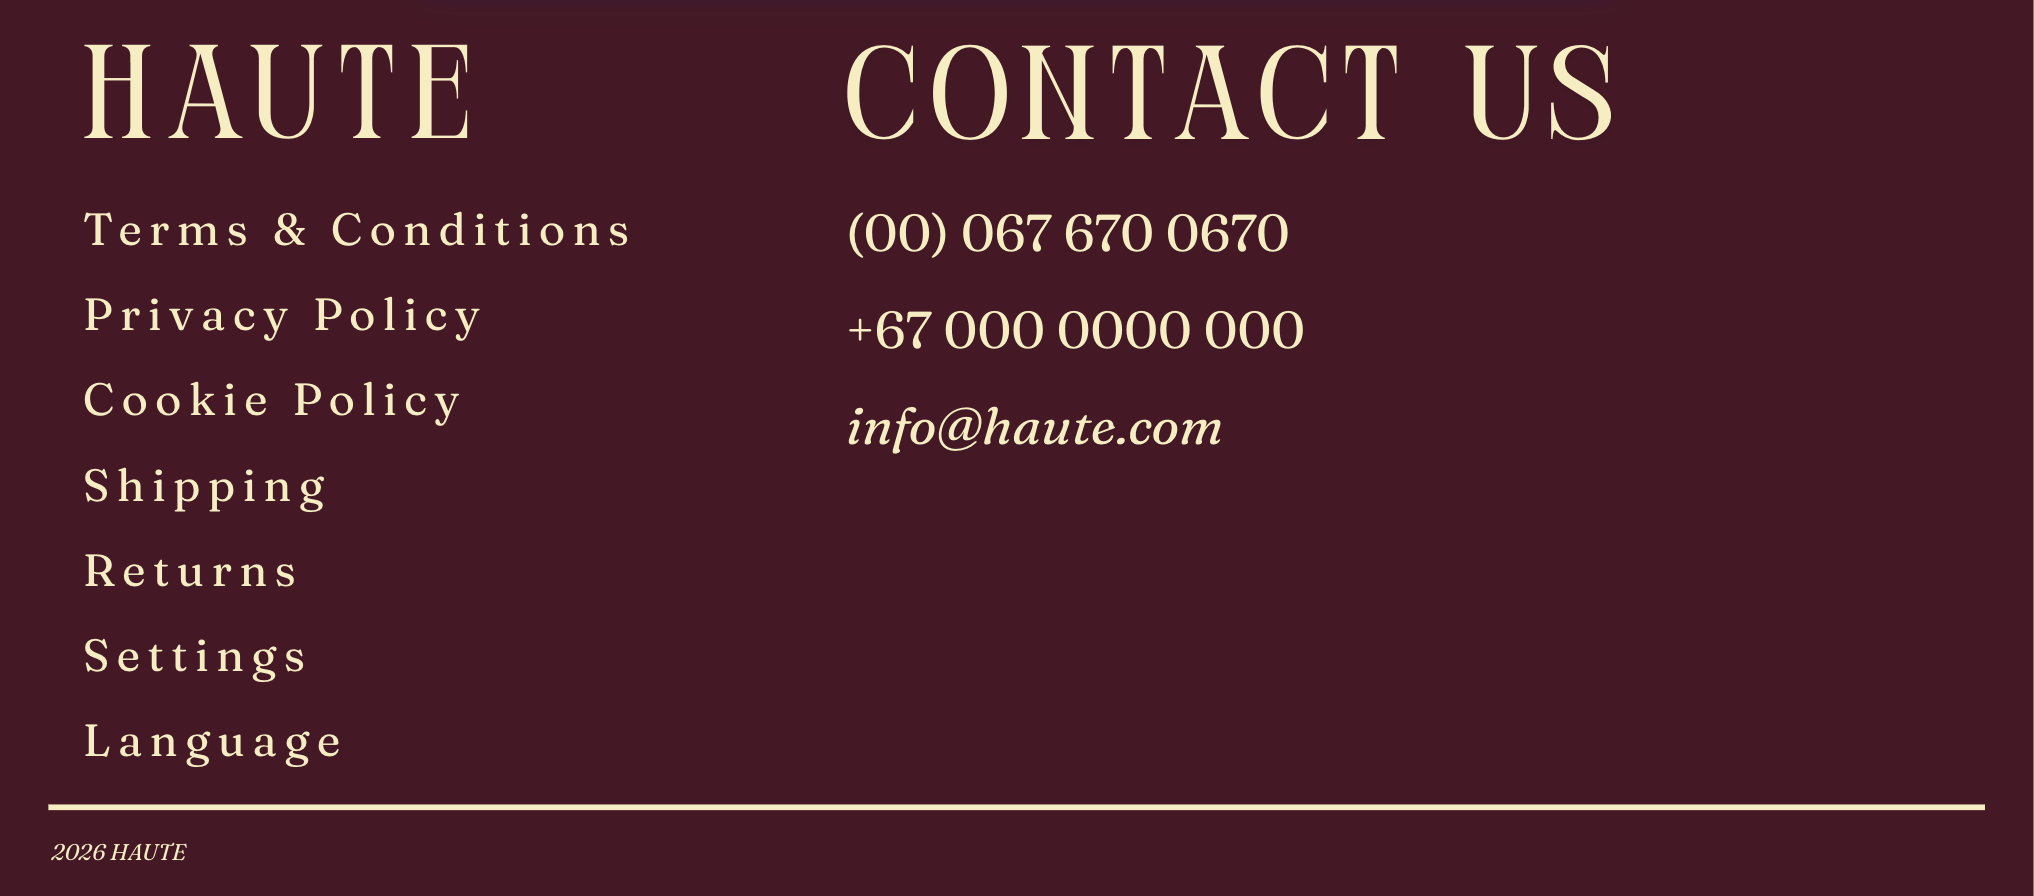
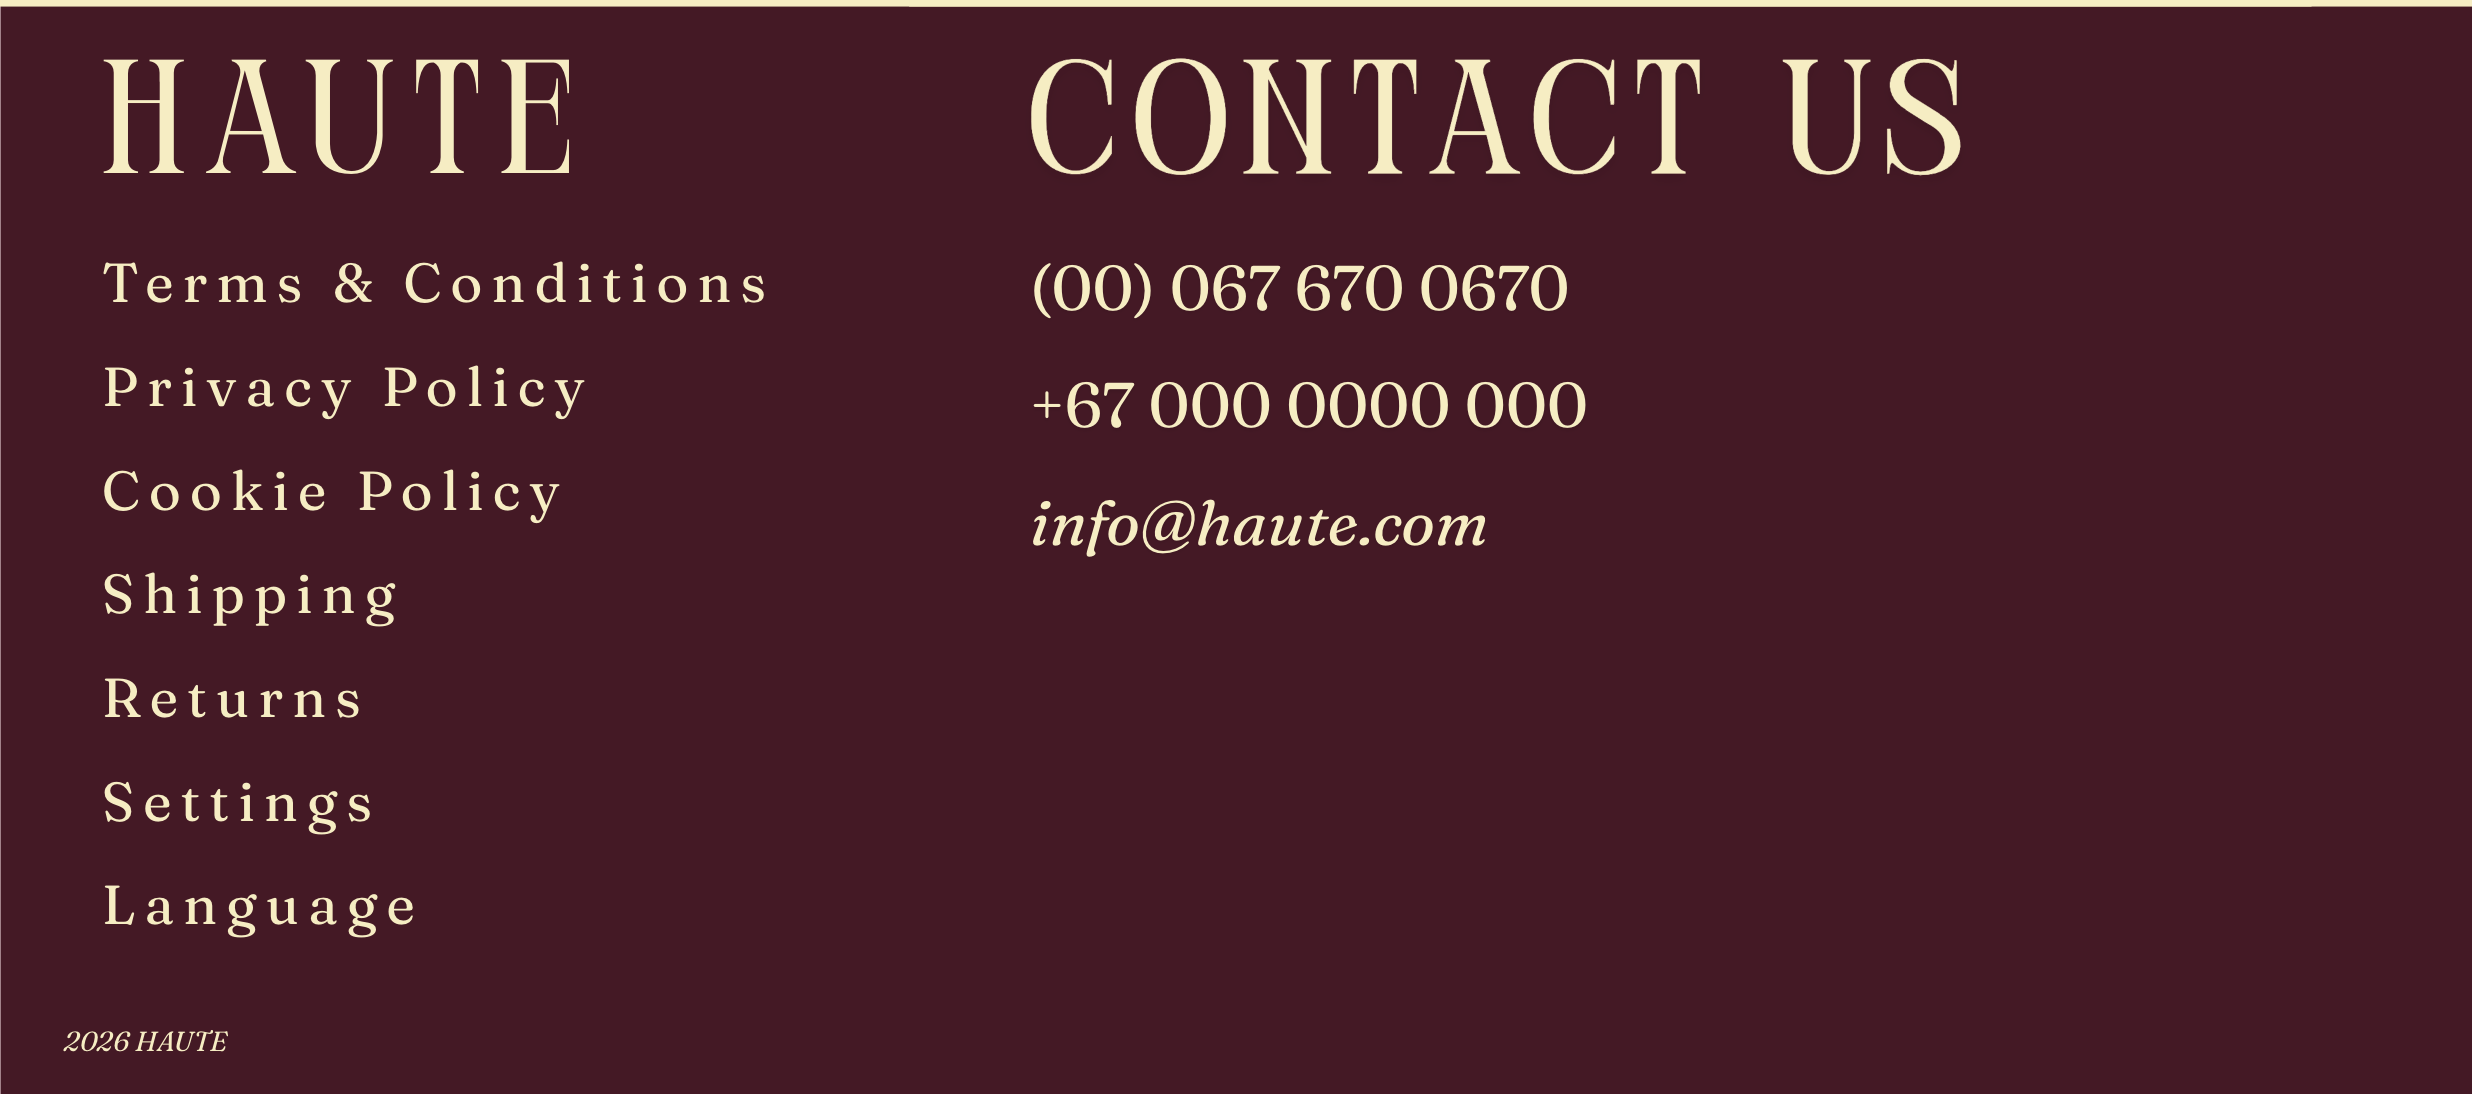
finished colaroma.html
added pics & wrote text for colaroma.html similar template form as soleil.html and venus.html

diff --git a/colaroma.html b/colaroma.html
@@ -3,7 +3,7 @@
 <head>
     <meta charset="UTF-8">
     <meta name="viewport" content="width=device-width, initial-scale=1.0">
-    <title>Shop&Cart</title>
+    <title>Soleil</title>
     <link href="https://fonts.cdnfonts.com/css/perandory" rel="stylesheet">
     <link rel="stylesheet" href="styles.css">
     <link rel="preconnect" href="https://fonts.googleapis.com">
@@ -12,12 +12,10 @@
 </head>
 <body>
     <nav>
-
-        
         <div class="navLeft">
             <ul>
                 <li>
-                        <img src="photos/menu.png" width="70">
+                        <img src="photos/menu.png" width="70"> 
                 </li>
                 <li>
                     <a href="explore.html">
@@ -45,7 +43,36 @@
         </div>
     </nav>
     <main class="colaroma">
+        <div class="ticker">
+            <div class="ticker-track">
+                <span>Introducing you to a fan favorite •  COLAROMA  • </span>
+                <span>Introducing you to a fan favorite •  COLAROMA  • </span>
+                <span>Introducing you to a fan favorite •  COLAROMA  • </span>
+            </div>
+        </div>
+        <div>
+            <img src="photos/colarama_billboard.png" width="1470px">
+        </div>
+        <div class="soleil1">
+           <img src="photos/cans_colaroma.png" width="700px" height="700px"> 
+           <p><b>COCA-COLA</b><br><br>We are thrilled to announce this scent, and it would not have been possible without our partnership with <i>Coca-Cola<sup>®</sup>.</i> Coca-Cola was officially founded in 1892, and throughout the years, Coca-Cola's branding has consisted of various aesthetics, whether it's picniccore, vintage, or dark summer aesthetic--This was our goal for Colaroma, to be able to combine such aesthetics that regularly contradict each other, into one bottle, one scent profile, and one unforgettable masterpiece. Additionally, Coca-cola's scent profile has always been distinct, and enjoyed by many. We hope you enjoy this scent just as much as you might enjoy a sip of Coca-Cola on a warm summer day!</p>
+        </div>
+        <div class="soleil1">
+            <p><b>BACCHUS</b><br><br>If Bacchus, the Roman god of wine and festive revelry were to roam this planet today, undoubtedly, he'd be the biggest fan of coca-cola. This connection between the two shaped this scent with great influence. The fragrance is built around sweet spices and caramel. The top notes are a quick and subtle bitter citrus dew, which provides more dimension rather than overwhelming sweetness, also providing the intial spicy and fizzy scent. The heart notes are defined by cinnamon and caramel, with a hint of vanilla. This is the peak of the coca-cola scent, though it is important to remember the hint of vanilla remains subtle in order to make sure it doesn't overpower the overall cherry-cola scent that allows it to blend in with the base notes. With this in mind, the base notes gradually shift into the wine aroma, a warm and complex blend of deep grape and cherry, and a tart yet boozy fragrance of wine fermentation.</p>
+            <img src="photos/coke_colaroma.png" width="700px" height="700px"> 
+        </div>
+        <div class="soleil1">
+           <img src="photos/grapes_colaroma.png" width="700px" height="700px"> 
+           <p><b>KEY INGREDIENTS</b><br><br>Benzyl salicyate is a naturally derived organic compound which features a subtle, sweet balsamic scent. We also added ylang-ylang oils for additional tropical, rich, and warm undertones of custard, banana, and honey. The essential element, however was the natural extract coming from the citrus of bergamot lemon. This supplied the bright, zesty citrus punch you'll find in any lemon, with the slightly spicy undertone coming from the peels that you'll smell in the perfume. In order to make the scent last, we added ambergris, a substrance produced in the digestive system of sperm whales that is known for being a rare, effective fixative that helps perfume scents last longer.</p>
+        </div>
+        <div class="soleilButtons">
+            <a href="shop.html">
+                <img src="photos/btn1_venus.png" width="450"> 
+            </a>
+            <a href="explore.html">
+                <img src="photos/btn2_venus.png" width="450"> 
+            </a>
+        </div>
     </main>
     <img src="photos/footer.png" width="1475" height="700">
-</body>
-</html>
+</body

diff --git a/venus.html b/venus.html
@@ -55,7 +55,7 @@
         </div>
         <div class="soleil1">
            <img src="photos/flowers_venus.png" width="700px" height="700px"> 
-           <p><b>FLYTRAP</b><br><br>The Venus Flytrap, the muse of this piece, attracts its prey using sweet nectar, bright colors, and food-like scents. It mimics the aromas of flowers and ripening fruit. The Venus Flytrap is named after Venus, the Roman goddess of beauty and love.</p>
+           <p><b>FLYTRAP</b><br><br>The Venus Flytrap, the muse of this piece, attracts its prey using sweet nectar, bright colors, and food-like scents. It mimics the aromas of flowers and ripening fruit. The Venus Flytrap is named after Venus, the Roman goddess of beauty and love, and this scent was subsequently named so too.</p>
         </div>
         <div class="soleil1">
             <p><b>THE SWEETEST BLOOM</b><br><br>Our primary goal of this scent was to be able to seamlessly combine the sweet, rich aroma you're hit with when stepping into a bakery, with the intoxicating floral scent you'll find in lush flower meadows. Venus is the perfect mix this, consisting of the main floral aroma, and a subtle sweet frosting scent. The scent opens with a bright burst of ripening fruit, tempting as fresh-picked berries on a spring afternoon built around a lush, nectar-sweet floral heart. The scent settles into a whipped, honeysuckle, lingering with a fruity jam-like sweetness of a pastry filling. As the dewy, honeyed scent floats in the air, you're sure to turn heads with this scent trailing behind your footsteps.</p>
@@ -63,7 +63,7 @@
         </div>
         <div class="soleil1">
            <img src="photos/strawberrysyrup_venus.png" width="700px" height="700px"> 
-           <p><b>KEY INGREDIENTS</b><br><br>Honeysuckle absolute froms the lush, nectar-sweet floral heart of the fragnance, capturing the same allyring aroma the Venus Flytrap used to draw in its prey. We layered Fiori di Sicilia extract, a delicate floral-vanilla note traditionally used in Italian pastry baking, to bridge the gap between blooming flower and sweet frosting. A ripe berry jam accord adds a fruity, simmered sweetness, reminiscent of pastry filling still warm the oven, while a soft whipped frosting note lends a sugared, creamy finish that lingers like the last but of dessert. Finally, we included trace organic compounds drawn from the Venus Flytrap itself, subtle understated, a quiet nod to the plant's own natural, nectar-like scent. In order to make the scent last, we added ambergris, a substrance produced in the digestive system of sperm whales that is known for being a rare, effective fixative that helps perfume scents last longer.</p>
+           <p><b>KEY INGREDIENTS</b><br><br>Honeysuckle absolute froms the lush, nectar-sweet floral heart of the fragnance, capturing the same allyring aroma the Venus Flytrap used to draw in its prey. We layered Fiori di Sicilia extract, a delicate floral-vanilla note traditionally used in Italian pastry baking, to bridge the gap between blooming flower and sweet frosting. A ripe berry jam accord adds a fruity, simmered sweetness, reminiscent of pastry filling still warm the oven, while a soft whipped frosting note lends a sugared, creamy finish that lingers like the last but of dessert. Finally, we included trace organic compounds drawn from the Venus Flytrap itself, subtle understated, a quiet nod to the plant's own natural, nectar-like scent. In order to make the scent last, we added ambergris, a substance produced in the digestive system of sperm whales that is known for being a rare, effective fixative that helps perfume scents last longer.</p>
         </div>
         <div class="soleilButtons">
             <a href="shop.html">

diff --git a/soleil.html b/soleil.html
@@ -63,7 +63,7 @@
         </div>
         <div class="soleil1">
            <img src="photos/sunset_soleil.png" width="700px" height="700px"> 
-           <p><b>KEY INGREDIENTS</b><br><br>Benzyl salicyate is a naturally derived organic compound which features a subtle, sweet balsamic scent. We also added ylang-ylang oils for additional tropical, rich, and warm undertones of custard, banana, and honey. The essential element, however was the natural extract coming from the citrus of bergamot lemon. This supplied the bright, zesty citrus punch you'll find in any lemon, with the slightly spicy undertone coming from the peels that you'll smell in the perfume. In order to make the scent last, we added ambergris, a substrance produced in the digestive system of sperm whales that is known for being a rare, effective fixative that helps perfume scents last longer.</p>
+           <p><b>KEY INGREDIENTS</b><br><br>Benzyl salicyate is a naturally derived organic compound which features a subtle, sweet balsamic scent. We also added ylang-ylang oils for additional tropical, rich, and warm undertones of custard, banana, and honey. The essential element, however was the natural extract coming from the citrus of bergamot lemon. This supplied the bright, zesty citrus punch you'll find in any lemon, with the slightly spicy undertone coming from the peels that you'll smell in the perfume. In order to make the scent last, we added ambergris, a substance produced in the digestive system of sperm whales that is known for being a rare, effective fixative that helps perfume scents last longer.</p>
         </div>
         <div class="soleilButtons">
             <a href="shop.html">

diff --git a/styles.css b/styles.css
@@ -48,6 +48,10 @@ ul {
 }
 .shop {
     background-color:#062885;
+    height: 3120px;
+}
+.colaroma {
+    background-color:#ec4cbc;
     height: 500px;
 }
 .soleil {
@@ -172,4 +176,10 @@ span {
 .venus {
    background-color: #e17087;
     height: 3120px; 
+}
+.colaroma {
+    background-color:#4a1726;
+    height: 3120px;
+    margin: 0px;
+    width: 1470px;
 }

diff --git a/README.md b/README.md
@@ -2,4 +2,5 @@
 a fictional perfume line site, the brand name HAUTE means high & elevated in French. The website features three different perfumes; Soleil, Venus, and Colaroma.
 All graphic design was created using canva: https://canva.link/i8cy5gej3fq5kdg
 Some features of the site are limited due to the fact that this is still a FICTIONAL brand
+Additionally, there are fictional partnerships mentioned and fictional information on the site for branding purposes
 Enjoy!
